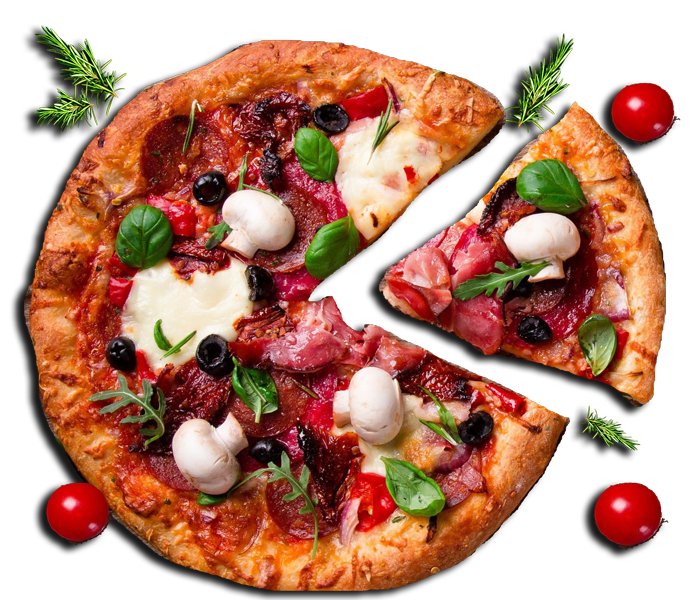
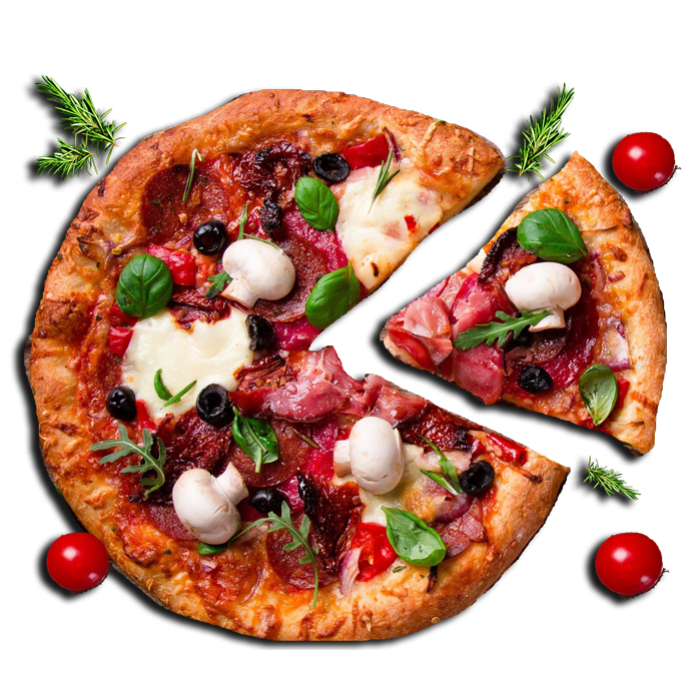
Updated layout design, added Scss variables. Added delete pizza items functionality. Added functionality of adding images to pizza items

diff --git a/src/styles/App.scss b/src/styles/App.scss
@@ -1,8 +1,9 @@
-$base: rgb(48, 50, 71);
+@import "variables";
+
 
 body {
   line-height: 1.2;
-  color: $base;
+  color: $design_gray;
   height: 100%;
 }
 
@@ -45,7 +46,7 @@ a {
   display: flex;
   padding: 20px;
   color: #fff;
-  background-color: #C82A35;
+  background-color: $design_red;
   font-family: "Arial", serif;
   text-decoration: underline;
   font-style: italic;
@@ -76,6 +77,7 @@ a {
 
 .nav {
   cursor: pointer;
+
   &__item:not(:last-child) {
     margin-right: 20px;
   }
@@ -116,29 +118,29 @@ a {
 
   &__card {
     max-width: 280px;
-    transition: 0.2s;
     padding: 20px;
-    border: 3px dotted $base;
+    border: 3px dotted $design_gray;
     border-radius: 20px;
+    cursor: pointer;
+    transition: $default_transition_time;
 
     &:hover {
-      border-color: rgb(255, 213, 0);
-      cursor: pointer;
+      border-color: $design_orange;
     }
   }
 }
 
 .card {
   &__img {
-    height: 100%;
-    width: 100%;
+    max-height: 200px;
+    max-width: 200px;
     margin-bottom: 30px;
   }
 
   &__title {
     text-align: center;
     font-size: 26px;
-    margin-bottom: 40px;
+    margin-bottom: 10px;
   }
 
   &__description {
@@ -155,6 +157,7 @@ a {
 
   &__img {
     max-width: 500px;
+    max-height: 500px;
   }
 
   &__description {
@@ -163,10 +166,16 @@ a {
     flex-direction: column;
   }
 
+  &__btns {
+    width: 100%;
+    display: flex;
+    gap: 20px;
+    justify-content: end;
+  }
+
   &__btn {
     margin-top: 40px;
     max-width: 200px;
-    align-self: end;
   }
 }
 

diff --git a/src/pages/Pizza.jsx b/src/pages/Pizza.jsx
@@ -3,6 +3,7 @@ import {Link, useParams} from 'react-router-dom';
 import {useEffect} from 'react';
 import {GET_ITEM} from "../gql/query";
 import Button from "../components/UI/Button/Button";
+import DeleteItemComponent from "../components/DeleteItemComponent";
 
 const Pizza = () => {
 	let params = useParams();
@@ -17,13 +18,13 @@ const Pizza = () => {
 	if (loading) return <p>Loading...</p>;
 	if (error) return <p>Error!</p>;
 
-	const {name, size, price} = data.pizzaItem;
+	const {name, img, size, price} = data.pizzaItem;
 
 	return (
 		<>
 			<div className="_container pizza_item">
 				<div className='card pizza_item__card'>
-					<img className='card__img pizza_item__img' src="/img/pizza.png" alt=""/>
+					<img className='card__img pizza_item__img' src={img} alt=""/>
 					<div className='card__description pizza_item__description'>
 						<p className='title card__title'>
 							{name}
@@ -34,10 +35,18 @@ const Pizza = () => {
 						<p>
 							<b>Price:</b> ${price}
 						</p>
-						<Link className="pizza_item__btn" to={`/pizza/${id}/edit`}>
-							<Button className="pizza_item__btn">
-								Edit
-							</Button></Link>
+						<ul className="pizza_item__btns">
+							<li className="pizza_item__btn">
+								<DeleteItemComponent id={id}/>
+							</li>
+							<li className="pizza_item__btn">
+								<Link className="pizza_item__btn" to={`/pizza/${id}/edit`}>
+									<Button>
+										Edit
+									</Button>
+								</Link>
+							</li>
+						</ul>
 					</div>
 				</div>
 			</div>

diff --git a/src/gql/mutations.js b/src/gql/mutations.js
@@ -14,11 +14,12 @@ const SIGNIN_USER = gql`
 `;
 
 const NEW_ITEM = gql`
-    mutation NewPizza($name: String!, $size: String!, $price: String!) {
-        newPizza(name: $name, size: $size, price: $price) {
+    mutation NewPizza($name: String!, $img: String!, $size: String!, $price: String!) {
+        newPizza(name: $name, img: $img, size: $size, price: $price) {
             price
             size
             name
+            img
             id
             createdAt
             updatedAt
@@ -27,10 +28,11 @@ const NEW_ITEM = gql`
 `;
 
 const EDIT_ITEM = gql`
-    mutation UpdatePizza($updatePizzaId: ID!, $name: String!, $size: String!, $price: String!) {
-        updatePizza(id: $updatePizzaId, name: $name, size: $size, price: $price) {
+    mutation UpdatePizza($updatePizzaId: ID!, $name: String!, $img: String!, $size: String!, $price: String!) {
+        updatePizza(id: $updatePizzaId, name: $name, img: $img, size: $size, price: $price) {
             id
             name
+            img
             size
             price
             createdAt
@@ -39,9 +41,16 @@ const EDIT_ITEM = gql`
     }
 `;
 
+const DELETE_ITEM = gql`
+    mutation UpdatePizza($deletePizzaId: ID!) {
+        deletePizza(id: $deletePizzaId)
+    }
+`;
+
 export {
 	SIGNUP_USER,
 	SIGNIN_USER,
-    NEW_ITEM,
-    EDIT_ITEM
+	NEW_ITEM,
+	EDIT_ITEM,
+    DELETE_ITEM
 };

diff --git a/src/pages/Home.jsx b/src/pages/Home.jsx
@@ -1,7 +1,7 @@
 import {useQuery} from '@apollo/client'
 import {useEffect} from 'react'
 import {Link} from 'react-router-dom'
-import {GET_PIZZA} from "../gql/query";
+import {GET_PIZZA_LIST} from "../gql/query";
 
 
 const Home = () => {
@@ -10,7 +10,7 @@ const Home = () => {
 		document.title = "Pizza!"
 	})
 
-	const {data, loading, error} = useQuery(GET_PIZZA)
+	const {data, loading, error} = useQuery(GET_PIZZA_LIST)
 
 	if (loading) return <p className='_container home'>Loading...</p>
 
@@ -24,7 +24,7 @@ const Home = () => {
 						<Link to={`/pizza/${item.id}`} key={item.id}>
 							<div className='card pizza_list__card'>
 								<ul>
-									<img className='card__img' src="/img/pizza.png" alt=""/>
+									<img className='card__img' src={item.img} alt=""/>
 									<li className='title card__title'>
 										{item.name}
 									</li>

diff --git a/src/components/DeleteItemComponent.jsx b/src/components/DeleteItemComponent.jsx
@@ -1,0 +1,28 @@
+import React from 'react';
+import {useNavigate, useParams} from "react-router-dom";
+import {useMutation, useQuery} from "@apollo/client";
+import {DELETE_ITEM} from "../gql/mutations";
+import {GET_PIZZA_LIST} from "../gql/query";
+import Button from "./UI/Button/Button";
+
+const DeleteItemComponent = ({id}) => {
+	const navigate = useNavigate();
+
+	const [deleteItem, {loading, error}] = useMutation(DELETE_ITEM, {
+		refetchQueries: [GET_PIZZA_LIST],
+		variables: {
+			deletePizzaId: id
+		},
+		onCompleted: () => {
+			navigate(`/`)
+		}
+	})
+
+	return (
+		<Button onClick={deleteItem}>
+			Delete
+		</Button>
+	);
+};
+
+export default DeleteItemComponent;

diff --git a/src/gql/query.js b/src/gql/query.js
@@ -6,13 +6,14 @@ const GET_ITEM = gql`
         pizzaItem(id: $pizzaItemId) {
             size
             name
+            img
             id
             price
         }
     }
 `;
 
-const GET_PIZZA = gql`
+const GET_PIZZA_LIST = gql`
     query PizzaFeed($cursor: String) {
         pizzaFeed(cursor: $cursor) {
             cursor
@@ -20,6 +21,7 @@ const GET_PIZZA = gql`
             items {
                 id
                 name
+                img
                 size
                 price
             }
@@ -28,4 +30,4 @@ const GET_PIZZA = gql`
 `;
 
 
-export {GET_ITEM, GET_PIZZA};
+export {GET_ITEM, GET_PIZZA_LIST};

diff --git a/src/pages/NewItem.jsx b/src/pages/NewItem.jsx
@@ -3,7 +3,7 @@ import {useMutation} from "@apollo/client";
 import ItemFormComponent from "../components/ItemFormComponent";
 import {useNavigate} from "react-router-dom";
 import {NEW_ITEM} from "../gql/mutations";
-import {GET_PIZZA} from "../gql/query";
+import {GET_PIZZA_LIST} from "../gql/query";
 
 
 const NewItem = () => {
@@ -13,7 +13,7 @@ const NewItem = () => {
 	});
 
 	const [newItem, {loading, error}] = useMutation(NEW_ITEM, {
-		refetchQueries: [{query: GET_PIZZA}],
+		refetchQueries: [{query: GET_PIZZA_LIST}],
 		onCompleted: data => {
 			navigate(`/pizza/${data.newPizza.id}`);
 		}

diff --git a/src/components/ItemFormComponent.jsx b/src/components/ItemFormComponent.jsx
@@ -41,6 +41,14 @@ const ItemFormComponent = ({action, content = {}, title, ...props}) => {
 						<Input
 							required
 							type="text"
+							name="img"
+							value={values?.img}
+							placeholder="Img"
+							onChange={onChange}
+						/>
+						<Input
+							required
+							type="text"
 							name="size"
 							value={values?.size}
 							placeholder="Size"

diff --git a/src/components/UI/Button/Button.module.scss b/src/components/UI/Button/Button.module.scss
@@ -1,8 +1,8 @@
 .btn {
-    font-size: 20px;
+    font-size: 18px;
     background-color: #fff;
     border: 2px solid rgb(255, 255, 0);
-    padding: 14px 31px;
+    padding: 13px 26px;
     font-weight: 500;
     transition: .2s;
 

diff --git a/src/styles/index.scss b/src/styles/index.scss
@@ -39,7 +39,7 @@ body {
     height: 100%;
     width: 100%;
     font-size: 100%;
-    line-height: 1.2;
+    line-height: 1.25;
     font-size: 20px;
     -ms-text-size-adjust: 100%;
     -moz-text-size-adjust: 100%;

diff --git a/src/styles/variables.scss b/src/styles/variables.scss
@@ -1,0 +1,9 @@
+// Colors
+$design_gray: rgb(48, 50, 71);
+$design_red: #C82A35;
+$design_green: #008D44;
+$design_orange: #ffcf5e;
+
+
+// Animations
+$default_transition_time: .2s;
